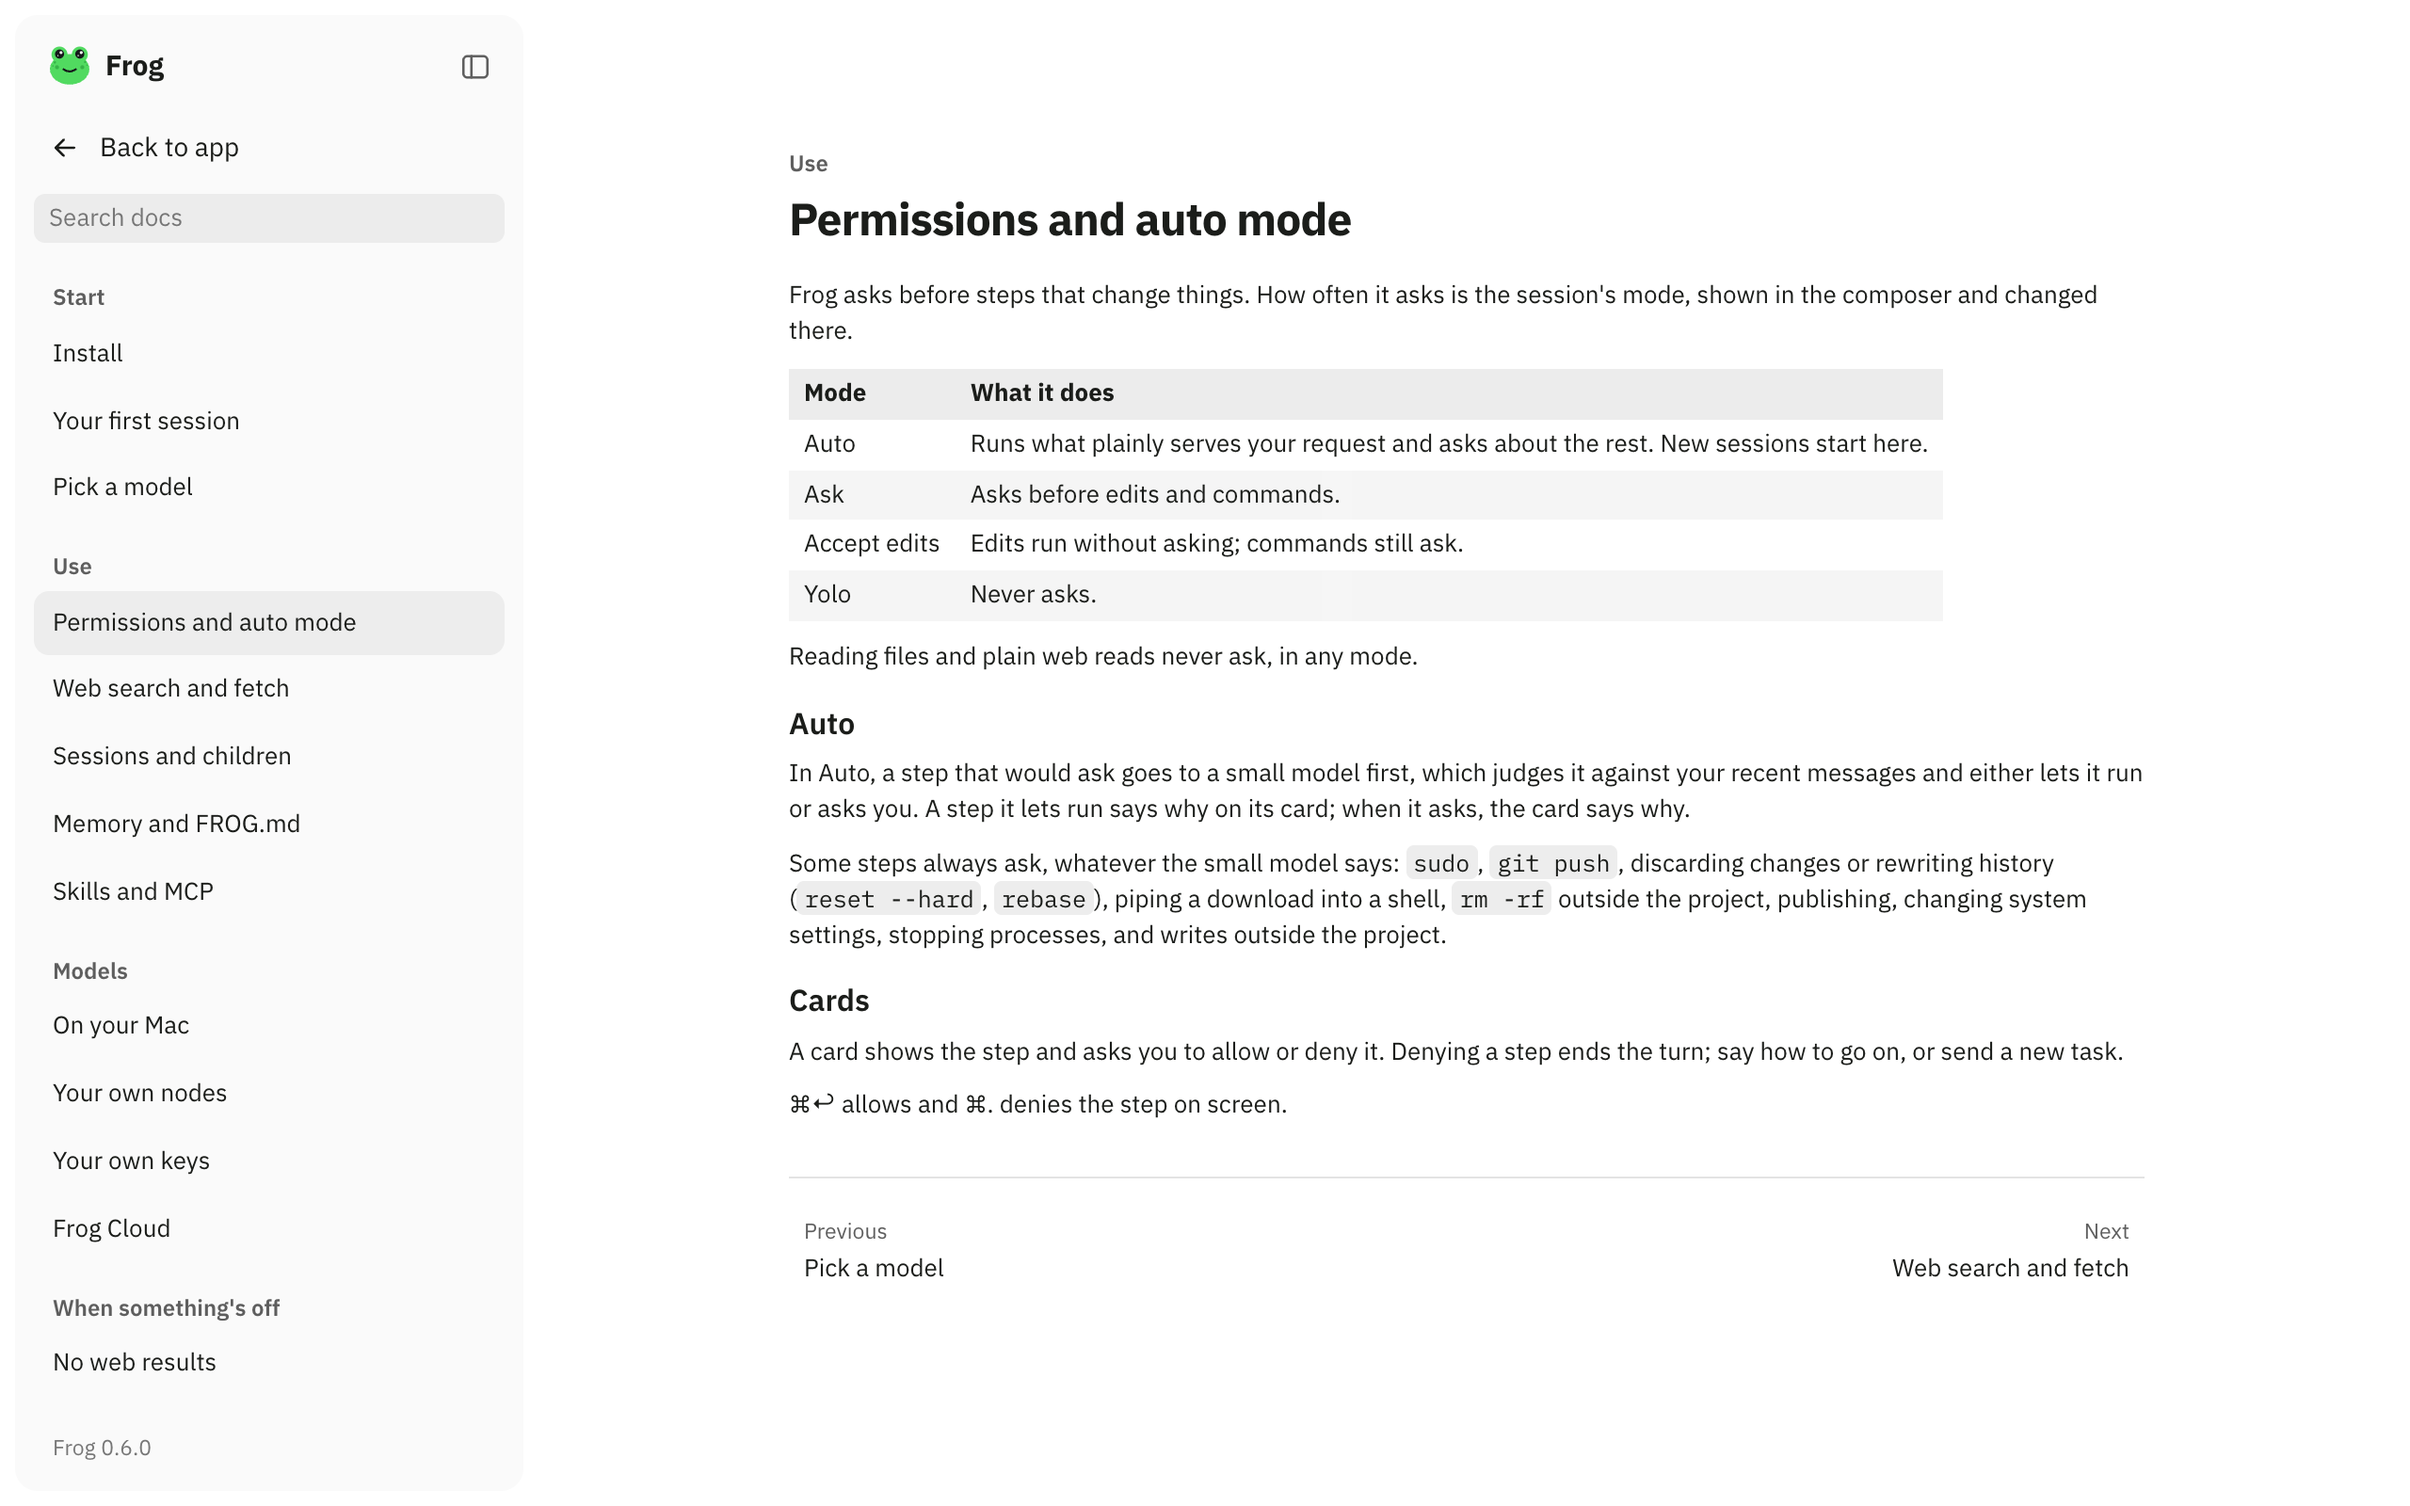
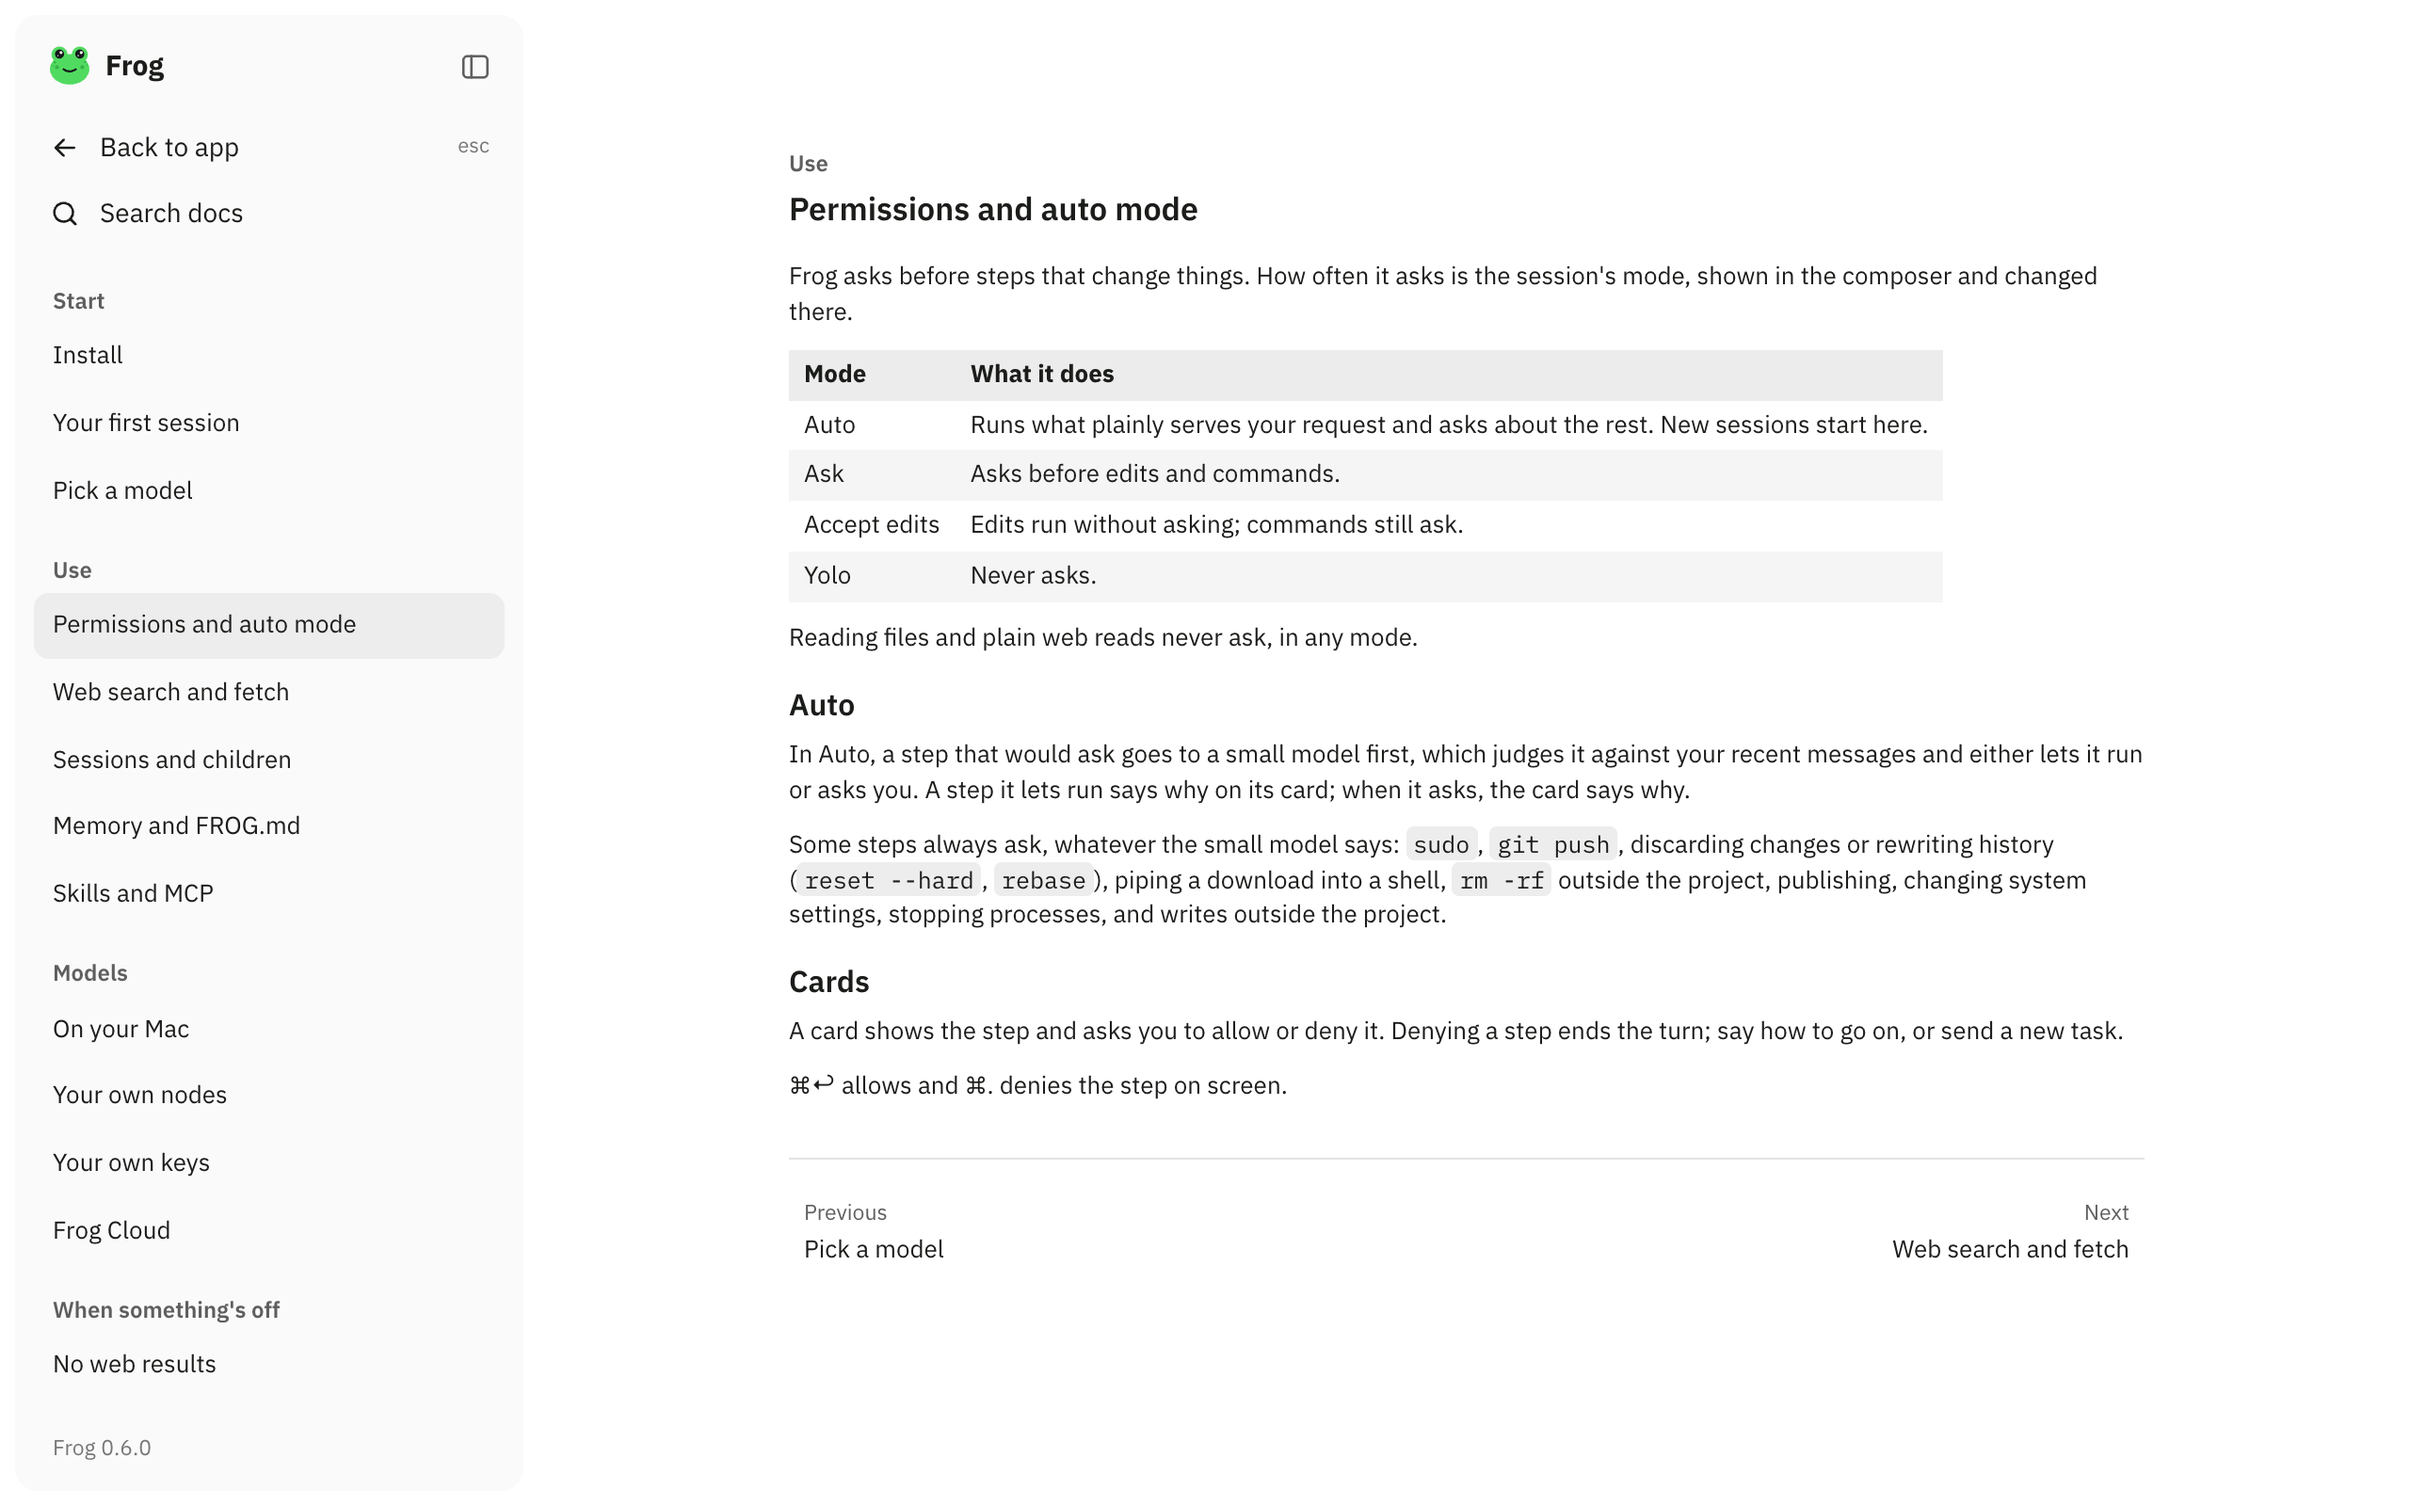
web docs: match the Mac's search row, esc hint and page title
Search docs is a sidebar row with the magnifier, like Back to app and the
thread sidebar's Search, and becomes a field (with a clear button) when
clicked. Back to app shows a muted esc hint. The page title is 17px semibold,
the Mac's size; it's the docs page's own class, so the transcript's markdown
headings are unchanged.

diff --git a/apps/web/src/ui/Docs.tsx b/apps/web/src/ui/Docs.tsx
@@ -81,6 +81,8 @@ interface SidebarProps {
 /** Back to app, Search docs, then the pages under their sections, and the version at the bottom. */
 export function DocsSidebar({ pages, current, version, onBack, onOpen }: SidebarProps) {
   const [q, setQ] = useState('')
+  // Search docs is a row, like the thread sidebar's Search, until it's clicked; then it's a field.
+  const [searching, setSearching] = useState(false)
   const found = useMemo(() => search(pages, q), [pages, q])
   const sections = useMemo(() => {
     const out: { title: string; pages: Page[] }[] = []
@@ -94,11 +96,22 @@ export function DocsSidebar({ pages, current, version, onBack, onOpen }: Sidebar
   return (
     <div className="docs-side">
       <nav aria-label="Documentation" className="nav">
-        <button type="button" className="row big" onClick={onBack}><Icon d={ICON.arrowLeft} size={17} /><span style={{ flex: 1 }}>Back to app</span></button>
+        <button type="button" className="row big" onClick={onBack}><Icon d={ICON.arrowLeft} size={17} /><span style={{ flex: 1 }}>Back to app</span><span className="kb">esc</span></button>
+        {searching || q ? (
+          <div className="row big docs-search">
+            <Icon d={ICON.search} size={17} />
+            <input autoFocus value={q} placeholder="Search docs" aria-label="Search docs"
+              onChange={(e) => setQ(e.target.value)}
+              onBlur={() => setSearching(false)}
+              onKeyDown={(e) => { if (e.key === 'Enter' && found[0]) onOpen(found[0].slug) }} />
+            {q && <button type="button" className="ic-btn docs-clear" aria-label="Clear the search" onMouseDown={(e) => e.preventDefault()} onClick={() => setQ('')}>
+              <svg aria-hidden="true" width="12" height="12" viewBox="0 0 24 24" fill="none" stroke="currentColor" strokeWidth="2.4" strokeLinecap="round"><path d="M6 6l12 12M18 6L6 18" /></svg>
+            </button>}
+          </div>
+        ) : (
+          <button type="button" className="row big" onClick={() => setSearching(true)}><Icon d={ICON.search} size={17} /><span style={{ flex: 1 }}>Search docs</span></button>
+        )}
       </nav>
-      <input className="f-field docs-search" type="search" value={q} placeholder="Search docs" aria-label="Search docs"
-        onChange={(e) => setQ(e.target.value)}
-        onKeyDown={(e) => { if (e.key === 'Enter' && found[0]) onOpen(found[0].slug) }} />
       <div className="docs-list">
         {sections.length === 0 && <div className="det wrap" style={{ padding: '10px 8px' }}>No page matches.</div>}
         {sections.map((s) => (

diff --git a/apps/web/src/app.css b/apps/web/src/app.css
@@ -747,14 +747,18 @@ button.tool:hover .tool-chev { opacity: 1; }
    shows one at the transcript's reading width. Existing tokens and sizes only. */
 .docs-row { margin-top: 4px; }
 .docs-side { flex: 1; min-height: 0; display: flex; flex-direction: column; }
-.docs-search { margin: 2px 0 6px; }
+.docs-search { cursor: text; }
+.docs-search:hover { background: transparent; }
+.docs-search input { flex: 1; min-width: 0; border: 0; background: transparent; outline: none; padding: 0; font: inherit; color: var(--fg); }
+.docs-search input::placeholder { color: var(--faint); }
+.docs-clear { width: 22px; height: 22px; }
 .docs-list { flex: 1; min-height: 0; overflow-y: auto; }
 .docs-list a.srow { text-decoration: none; }
 .docs-h { font-size: 12px; font-weight: 600; color: var(--muted); padding: 14px 10px 4px; }
 .docs-ver { padding: 10px 10px 2px; color: var(--faint); }
 .docs-page { gap: 0; padding-bottom: 40px; }
 .docs-sec { font-size: 12px; font-weight: 600; color: var(--muted); margin-bottom: 4px; }
-.docs-title { margin: 0 0 14px; font-family: var(--font-display); font-size: 24px; letter-spacing: -0.02em; }
+.docs-title { margin: 0 0 14px; font-size: 17px; font-weight: 600; } /* the Mac's page title */
 .docs-pager { display: flex; justify-content: space-between; gap: 12px; margin-top: 28px; padding-top: 14px; border-top: 1px solid var(--line); }
 .docs-step { display: flex; flex-direction: column; gap: 2px; padding: 6px 8px; border-radius: 8px; text-decoration: none; font-size: 13px; color: var(--fg); }
 .docs-step:hover { background: var(--hover); }

diff --git a/apps/web/test/docs.test.ts b/apps/web/test/docs.test.ts
@@ -121,8 +121,9 @@ test("previous and next run across sections; search filters titles and headings"
 test("the sidebar: Back to app, Search docs, sections with their pages, the version at the bottom", () => {
   const html = renderToStaticMarkup(h(DocsSidebar, { pages: WEB, current: "install", version: "0.6.0", onBack: noop, onOpen: noop }));
   const t = text(html);
-  assert.ok(t.startsWith("Back to app"));
-  assert.match(html, /placeholder="Search docs"/);
+  assert.ok(t.startsWith("Back to app esc Search docs"), "Back to app with its esc hint, then the Search docs row");
+  assert.match(html, /<button type="button" class="row big"><svg[^>]*><path d="M11 4[^"]*"><\/path><\/svg><span[^>]*>Search docs<\/span><\/button>/, "search is a row with the magnifier until clicked");
+  assert.ok(!html.includes("<input"), "no field until it's clicked");
   const heads = [...html.matchAll(/<div class="docs-h">([^<]*)<\/div>/g)].map((m) => m[1].replace(/&#x27;/g, "'"));
   assert.deepEqual(heads, manifest.sections.map((s) => s.title), "one label per section, in manifest order");
   assert.match(html, /<a class="srow on" href="\/docs\/install"><span class="stitle" aria-current="page">Install<\/span><\/a>/);

diff --git a/apps/web/src/ui/icons.tsx b/apps/web/src/ui/icons.tsx
@@ -12,6 +12,8 @@ export const ICON = {
   plusMinus: 'M12 3v8M8 7h8M8 18h8',
   /** An open book (the sidebar's Documentation row; the Mac's book). */
   book: 'M12 6.5C10.5 5 8.2 4.5 4 4.5v13c4.2 0 6.5.5 8 2 1.5-1.5 3.8-2 8-2v-13c-4.2 0-6.5.5-8 2zM12 6.5v13',
+  /** Search (the Mac's magnifyingglass; the thread sidebar's Search row). */
+  search: 'M11 4a7 7 0 1 0 0 14a7 7 0 1 0 0-14M20 20l-4-4',
   /** Back to app (the Mac's arrow.left). */
   arrowLeft: 'M19 12H5M11 6l-6 6 6 6',
 } as const
